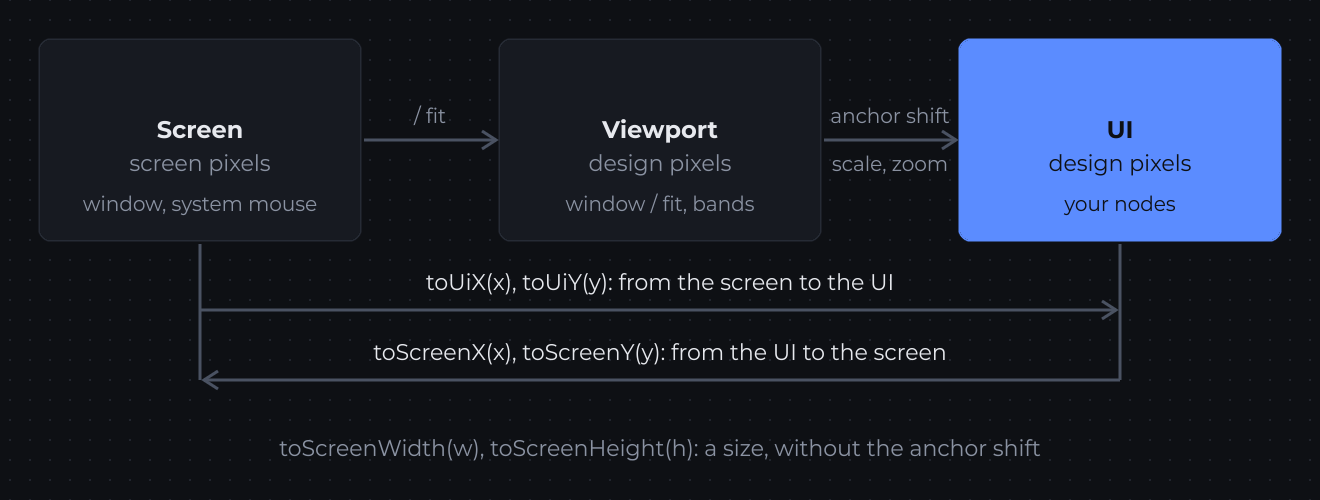
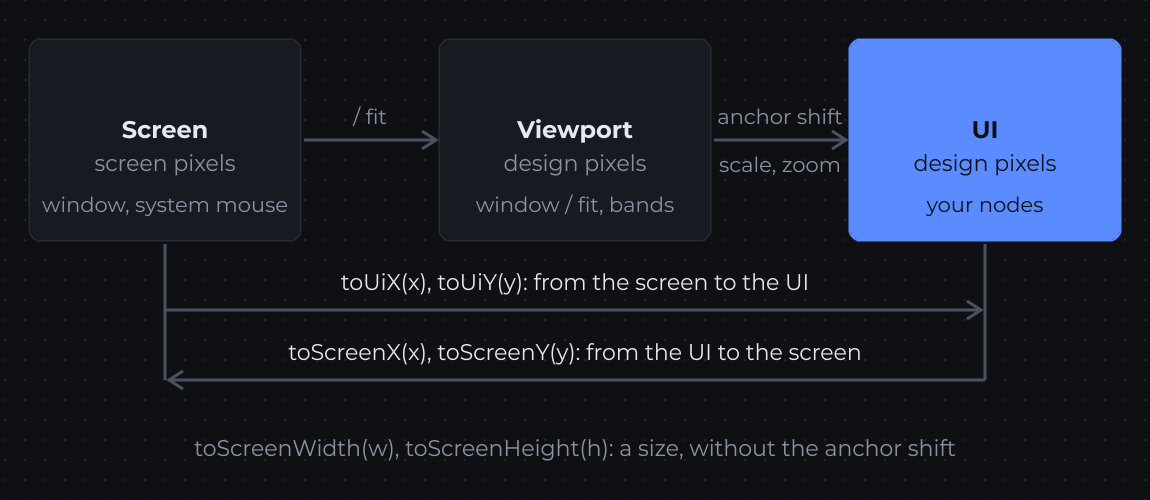
fix: readable text in wide diagrams (🍱)

diff --git a/documentation/examples/src/main/java/com/example/describing/canvas/ConvertDiagramUI.java b/documentation/examples/src/main/java/com/example/describing/canvas/ConvertDiagramUI.java
@@ -7,27 +7,27 @@ public class ConvertDiagramUI extends DiagramUI {
 
 	@Override
 	public void init() {
-		super.backdrop(300, 290, 1320, 500).body(backdrop -> {
-			super.box(40, 40, 320, 200, "Screen", "screen pixels").attach(backdrop);
-			super.label(40, 186, 320, 36, "window, system mouse", 20F, DiagramUI.NOTE).attach(backdrop);
-			super.box(500, 40, 320, 200, "Viewport", "design pixels").attach(backdrop);
-			super.label(500, 186, 320, 36, "window / fit, bands", 20F, DiagramUI.NOTE).attach(backdrop);
-			super.subject(960, 40, 320, 200, "UI", "design pixels").attach(backdrop);
-			super.label(960, 186, 320, 36, "your nodes", 20F, CaptureStyle.ON_ACCENT).attach(backdrop);
+		super.backdrop(385, 290, 1150, 500).body(backdrop -> {
+			super.box(30, 40, 270, 200, "Screen", "screen pixels").attach(backdrop);
+			super.label(30, 186, 270, 36, "window, system mouse", 21F, DiagramUI.NOTE).attach(backdrop);
+			super.box(440, 40, 270, 200, "Viewport", "design pixels").attach(backdrop);
+			super.label(440, 186, 270, 36, "window / fit, bands", 21F, DiagramUI.NOTE).attach(backdrop);
+			super.subject(850, 40, 270, 200, "UI", "design pixels").attach(backdrop);
+			super.label(850, 186, 270, 36, "your nodes", 21F, CaptureStyle.ON_ACCENT).attach(backdrop);
 
-			super.arrow(backdrop, 364, 140, 496, 140);
-			super.label(360, 100, 140, 32, "/ fit", 20F, DiagramUI.NOTE).attach(backdrop);
-			super.arrow(backdrop, 824, 140, 956, 140);
-			super.label(820, 100, 140, 32, "anchor shift", 20F, DiagramUI.NOTE).attach(backdrop);
-			super.label(820, 148, 140, 32, "scale, zoom", 20F, DiagramUI.NOTE).attach(backdrop);
+			super.arrow(backdrop, 304, 140, 436, 140);
+			super.label(300, 100, 140, 32, "/ fit", 21F, DiagramUI.NOTE).attach(backdrop);
+			super.arrow(backdrop, 714, 140, 846, 140);
+			super.label(710, 100, 140, 32, "anchor shift", 21F, DiagramUI.NOTE).attach(backdrop);
+			super.label(710, 148, 140, 32, "scale, zoom", 21F, DiagramUI.NOTE).attach(backdrop);
 
-			super.line(backdrop, 200, 244, 200, 380);
-			super.line(backdrop, 1120, 244, 1120, 380);
-			super.arrow(backdrop, 200, 310, 1116, 310);
-			super.arrow(backdrop, 1120, 380, 204, 380);
-			super.label(200, 264, 920, 36, "toUiX(x), toUiY(y): from the screen to the UI", 22F, DiagramUI.LABEL).attach(backdrop);
-			super.label(200, 334, 920, 36, "toScreenX(x), toScreenY(y): from the UI to the screen", 22F, DiagramUI.LABEL).attach(backdrop);
-			super.label(40, 430, 1240, 36, "toScreenWidth(w), toScreenHeight(h): a size, without the anchor shift", 22F, DiagramUI.NOTE).attach(backdrop);
+			super.line(backdrop, 165, 244, 165, 380);
+			super.line(backdrop, 985, 244, 985, 380);
+			super.arrow(backdrop, 165, 310, 981, 310);
+			super.arrow(backdrop, 985, 380, 169, 380);
+			super.label(165, 264, 820, 36, "toUiX(x), toUiY(y): from the screen to the UI", 22F, DiagramUI.LABEL).attach(backdrop);
+			super.label(165, 334, 820, 36, "toScreenX(x), toScreenY(y): from the UI to the screen", 22F, DiagramUI.LABEL).attach(backdrop);
+			super.label(30, 430, 1090, 36, "toScreenWidth(w), toScreenHeight(h): a size, without the anchor shift", 22F, DiagramUI.NOTE).attach(backdrop);
 		}).attach(this);
 	}
 

diff --git a/documentation/examples/src/main/java/com/example/thinking/ThinkingMapUI.java b/documentation/examples/src/main/java/com/example/thinking/ThinkingMapUI.java
@@ -25,9 +25,9 @@ public class ThinkingMapUI extends UI {
 		.create(390, 250, 1140, 580)
 		.color(Color.TRANSPARENT)
 		.body(card -> {
-			ThinkingMapUI.block(40, 40, 300, 100, "Your loop", "events, frame(), present", CaptureStyle.SURFACE, CaptureStyle.TEXT).attach(card);
-			ThinkingMapUI.block(420, 40, 300, 100, "Backend", "LWJGL 3, Vulkan or LWJGL 2", CaptureStyle.SURFACE, CaptureStyle.TEXT).attach(card);
-			ThinkingMapUI.block(800, 40, 300, 100, "UI bridge", "routes input, draws the UIs", CaptureStyle.SURFACE, CaptureStyle.TEXT).attach(card);
+			ThinkingMapUI.block(30, 40, 320, 100, "Your loop", "events, frame(), present", CaptureStyle.SURFACE, CaptureStyle.TEXT).attach(card);
+			ThinkingMapUI.block(410, 40, 320, 100, "Backend", "LWJGL 3, Vulkan or LWJGL 2", CaptureStyle.SURFACE, CaptureStyle.TEXT).attach(card);
+			ThinkingMapUI.block(790, 40, 320, 100, "UI bridge", "routes input, draws the UIs", CaptureStyle.SURFACE, CaptureStyle.TEXT).attach(card);
 			RectNode
 			.create(400, 200, 360, 340)
 			.color(CaptureStyle.BACKGROUND)
@@ -50,8 +50,8 @@ public class ThinkingMapUI extends UI {
 			.attach(card);
 			ThinkingMapUI.block(880, 300, 220, 120, "Popup", "", CaptureStyle.ACCENT, CaptureStyle.ON_ACCENT).attach(card);
 			ThinkingMapUI.label(800, 486, 300, 40, "Open UIs, stacked").attach(card);
-			ThinkingMapUI.arrow(card, 340D, 90D, 420D, 90D);
-			ThinkingMapUI.arrow(card, 720D, 90D, 800D, 90D);
+			ThinkingMapUI.arrow(card, 350D, 90D, 410D, 90D);
+			ThinkingMapUI.arrow(card, 730D, 90D, 790D, 90D);
 			ThinkingMapUI.arrow(card, 950D, 140D, 950D, 200D);
 			ThinkingMapUI.arrow(card, 800D, 248D, 670D, 248D);
 			ThinkingMapUI.arrow(card, 580D, 276D, 495D, 320D);
@@ -68,8 +68,8 @@ public class ThinkingMapUI extends UI {
 	}
 
 	private static RectNode block(final double x, final double y, final double width, final double height, final String title, final String detail, final Color fill, final Color color) {
-		final TextInfo bold = TextInfo.create(ExampleFont.REGULAR, 20F).weight(FontWeight.BOLD).color(color);
-		final TextInfo regular = TextInfo.create(ExampleFont.REGULAR, 17F).color(fill == CaptureStyle.ACCENT ? color : CaptureStyle.MUTED);
+		final TextInfo bold = TextInfo.create(ExampleFont.REGULAR, 22F).weight(FontWeight.BOLD).color(color);
+		final TextInfo regular = TextInfo.create(ExampleFont.REGULAR, 21F).color(fill == CaptureStyle.ACCENT ? color : CaptureStyle.MUTED);
 		return RectNode
 		.create(x, y, width, height)
 		.color(fill)

diff --git a/documentation/examples/src/main/java/com/example/depth/PixelAlignmentUI.java b/documentation/examples/src/main/java/com/example/depth/PixelAlignmentUI.java
@@ -8,18 +8,18 @@ public class PixelAlignmentUI extends DepthDiagramUI {
 
 	@Override
 	public void init() {
-		super.backdrop(300, 320, 1320, 440)
+		super.backdrop(510, 320, 900, 320)
 		.body(card -> {
 			this.grid(card, 40D, "Exact edges", 1.5D, 1D, 4D, 3D);
-			this.grid(card, 470D, "Snapped edges", 2D, 1D, 4D, 3D);
-			this.grid(card, 900D, "Thin line", 1D, 2.3D, 6D, 0.4D);
+			this.grid(card, 324D, "Snapped edges", 2D, 1D, 4D, 3D);
+			this.grid(card, 608D, "Thin line", 1D, 2.3D, 6D, 0.4D);
 		})
 		.attach(this);
 	}
 
 	private void grid(final Node card, final double left, final String title, final double x, final double y, final double width, final double height) {
-		final double cell = 47.5D;
-		super.label(left, 30, 380, 40, title, Align.START).attach(card);
+		final double cell = 31.5D;
+		super.label(left, 30, 252, 40, title, Align.START).attach(card);
 		card.layer((node, mouseX, mouseY) -> {
 			for (int column = 0; column < 8; column++) {
 				for (int row = 0; row < 6; row++) {
